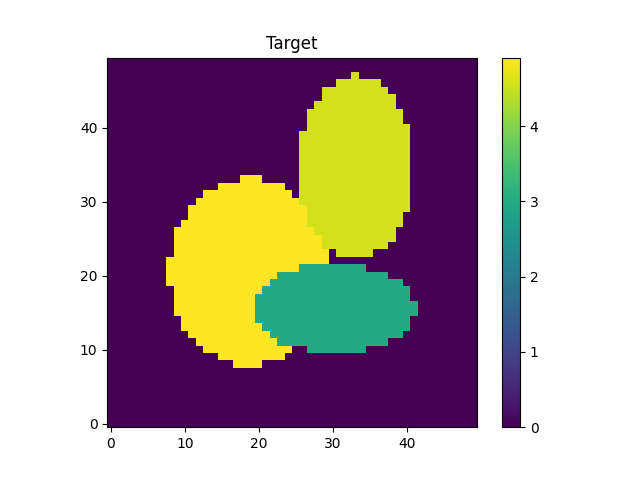
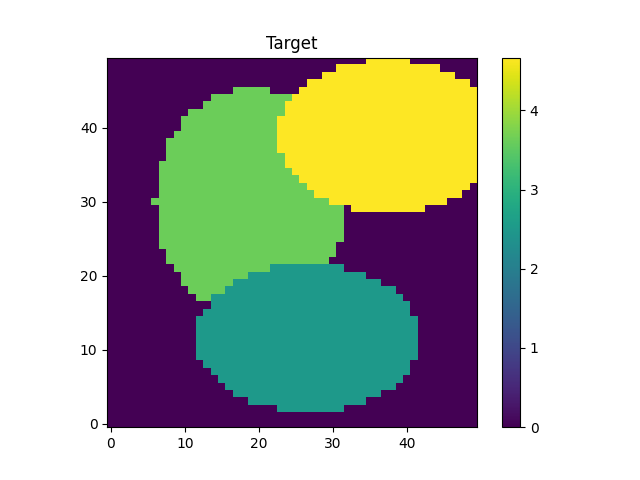
Gaussian algorithm producing reconstructions but with a negative sign

diff --git a/Code/Algorithm.py b/Code/Algorithm.py
@@ -18,7 +18,7 @@ def run_algorithm():
     PLOT_D = True  # plot the vector d as a function of it's indicies
     PLOT_RECONSTRUCTION = True  # plot the posterior mean of the distribution for the image
 
-    N = 30  # pixels per edge
+    N = 50  # pixels per edge
     n = N ** 2
     k = 8  # number of angles (or X-ray images)
     mm = 2  # number of rays per sensor
@@ -40,7 +40,7 @@ def run_algorithm():
     noise_mean = np.zeros(k * m)
 
     # define ROI
-    ROI = "offset circle"
+    ROI = "center circle"
     if ROI == "whole":
         A = np.ones((N, N))
     elif ROI == "offset circle":
@@ -74,7 +74,7 @@ def run_algorithm():
         while count < amount:
             x_loc, y_loc = np.random.uniform(-0.3, 0.3, size=2)
             a, b = np.random.uniform(0.01, 0.1, size=2)
-            attenuation = np.random.uniform(0.5, 5)
+            attenuation = np.random.uniform(0.2, 1)
             retry = False
             for x, y, att in memory:
                 if np.sqrt((x - x_loc) ** 2 + (y - y_loc) ** 2) < 0.4 or np.abs(att - attenuation) < 1:
@@ -95,7 +95,7 @@ def run_algorithm():
         plt.colorbar()
         plt.show()
     target_data = target_data.flatten(order="F")
-    x_prior = target_data
+    x_prior = np.zeros_like(target_data)
 
     # define projection matricies
     if CALCULATE_PROJECTION_MATRICIES:
@@ -215,14 +215,12 @@ def run_algorithm():
         # calculate the measurement
         # using method = "cholesky" is very important to make this run faster!
         gamma_noise = np.diag(d ** 2) + epsilon * np.eye(k * m)
-        sample_x = rng.multivariate_normal(x_prior, gamma_prior, method='cholesky')
-        # sample_x = np.diag(A.toarray())
-        # test = sample_x.reshape(N, N, order="F")
-        # plt.imshow(test)
+        # sample_x = rng.multivariate_normal(target_data, gamma_prior, method='cholesky')
         sample_noise = rng.multivariate_normal(noise_mean, gamma_noise, method='cholesky')
-        sample_y = R_k @ sample_x + sample_noise
+        sample_y = R_k @ target_data + sample_noise
 
         # calculate the new x_prior
+        Z_k = get_Z_k(d, R_k @ gamma_prior @ R_k.T, epsilon=epsilon)
         x_posterior = x_prior - gamma_prior @ R_k.T @ Z_k @ (sample_y - R_k @ x_prior)
         x_prior = x_posterior
 
@@ -267,7 +265,7 @@ def plot_reconstruction(x_prior, N):
     fig, ax = plt.subplots()
     im = ax.imshow(reconstruction, cmap='viridis', interpolation='nearest', origin='lower')#, vmin=0, vmax=1)
     fig.colorbar(im, ax=ax)
-    ax.set_title("ROI reconstruction")
+    ax.set_title("Target reconstruction")
 
 def is_valid(d, D):
     return np.sum(1 / (d ** 2)) <= D
